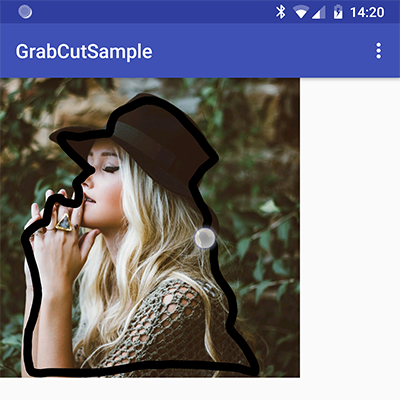
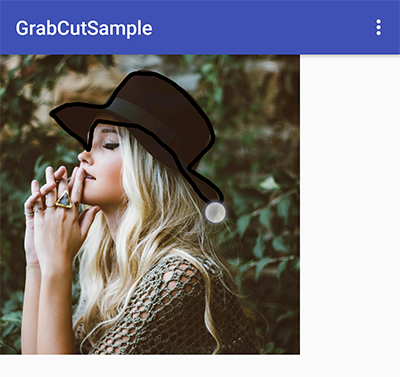
[mod] added screenshots

diff --git a/README.md b/README.md
@@ -1,8 +1,16 @@
 # GrabCutAndroid
 
-A dummy app that demonstrates foreground-background segmentation using the GrabCut algorithm in Android using OpenCV.
+A dummy app that demonstrates foreground-background segmentation using the GrabCut algorithm in Android using OpenCV and Kotlin.
 
-**This is a work in progress that attempts to use a polygon outline as a mask instead of only a rectangle, for increased accuracy. For a working version that uses only a rectangle, check [the original](https://github.com/mrmitew/GrabCutAndroid).**
+This fork uses a polygon outline as a mask instead of only a rectangle, for increased accuracy and speed.
+
+## Results
+
+Input image; draw outline; processing; result:
+
+![Result](screenshots.png)
+
+The above took roughly 3 seconds on a 1080x1080px input image on a Nexus 6P.
 
 ## To do:
 
